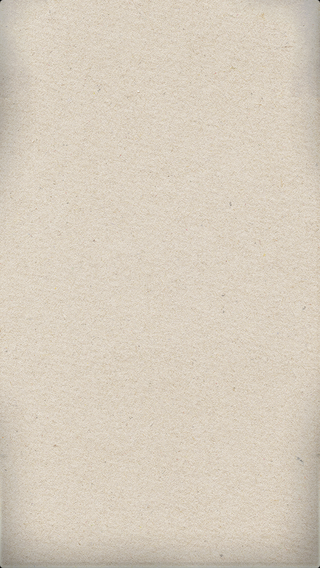
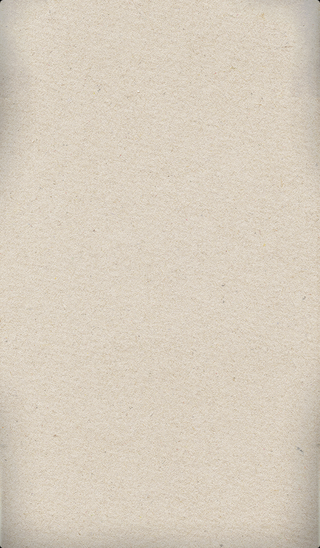
最蛋疼的issue搞定了！

diff --git a/GreWords/GreWords/PresentationLayer/WordDetail/WordDetailViewController.m b/GreWords/GreWords/PresentationLayer/WordDetail/WordDetailViewController.m
@@ -27,6 +27,7 @@
 {
     UIImageView *guideImageView;
 }
+@property (weak, nonatomic) IBOutlet UIImageView *backgroundImage;
 @property (weak, nonatomic) IBOutlet UIImageView *UpImage;
 @property (weak, nonatomic) IBOutlet UIImageView *DownImage;
 @property (weak, nonatomic) IBOutlet UIButton *PronounceButton;
@@ -164,6 +165,9 @@
 
 -(void)viewWillAppear:(BOOL)animated
 {
+    if (!iPhone5) {
+        [_backgroundImage setImage:[UIImage imageNamed:@"learning_backgournd_blank_mini.png"]];
+    }
     //添加左上角的进度圆~
     [self.dashboardVC wordDetailIndicatorGen];
     if (iPhone5) {
@@ -283,6 +287,7 @@
     [self setWordPronounceLabel:nil];
     [self setPronounceLabel:nil];
     [self setTimeImage:nil];
+    [self setBackgroundImage:nil];
     [super viewDidUnload];
 }
 

diff --git a/GreWords/GreWords/PresentationLayer/WordDetail/NewWordDetailViewController.m b/GreWords/GreWords/PresentationLayer/WordDetail/NewWordDetailViewController.m
@@ -32,7 +32,7 @@
 {
     UIImageView *guideImageView;
 }
-
+@property (weak, nonatomic) IBOutlet UIImageView *backgroundImage;
 @property (weak, nonatomic) IBOutlet UIImageView *UpImage;
 @property (weak, nonatomic) IBOutlet UIImageView *DownImage;
 @property (weak, nonatomic) IBOutlet UIButton *PronounceButton;
@@ -93,6 +93,9 @@
 
 -(void)viewWillAppear:(BOOL)animated
 {
+    if (!iPhone5) {
+        [_backgroundImage setImage:[UIImage imageNamed:@"learning_backgournd_blank_mini.png"]];
+    }
     //添加左上角的进度圆~
     [self.dashboardVC wordDetailIndicatorGen];
     if (iPhone5) {
@@ -186,6 +189,7 @@
     [self setWordPhonetic:nil];
     [self setSoundImage:nil];
     [self setBackButton:nil];
+    [self setBackgroundImage:nil];
     [super viewDidUnload];
 }
 
